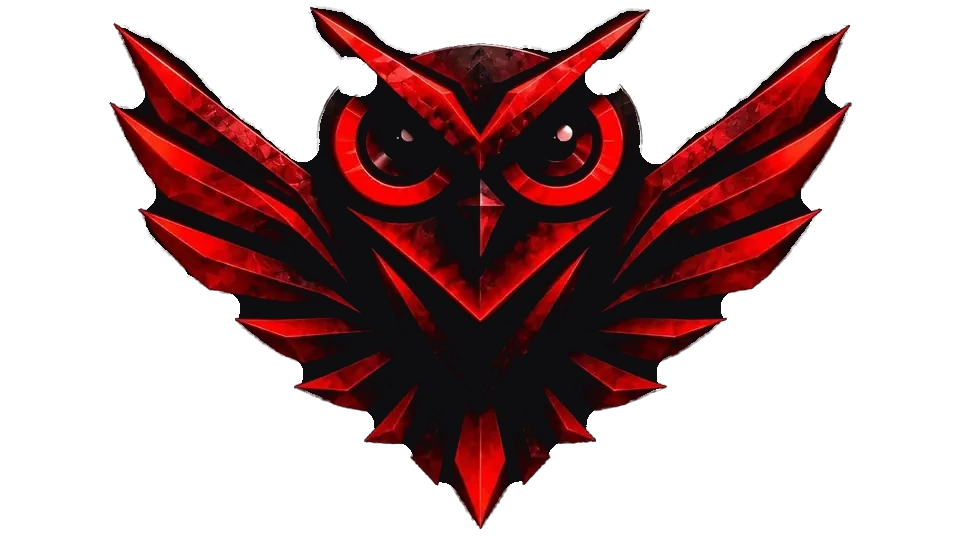
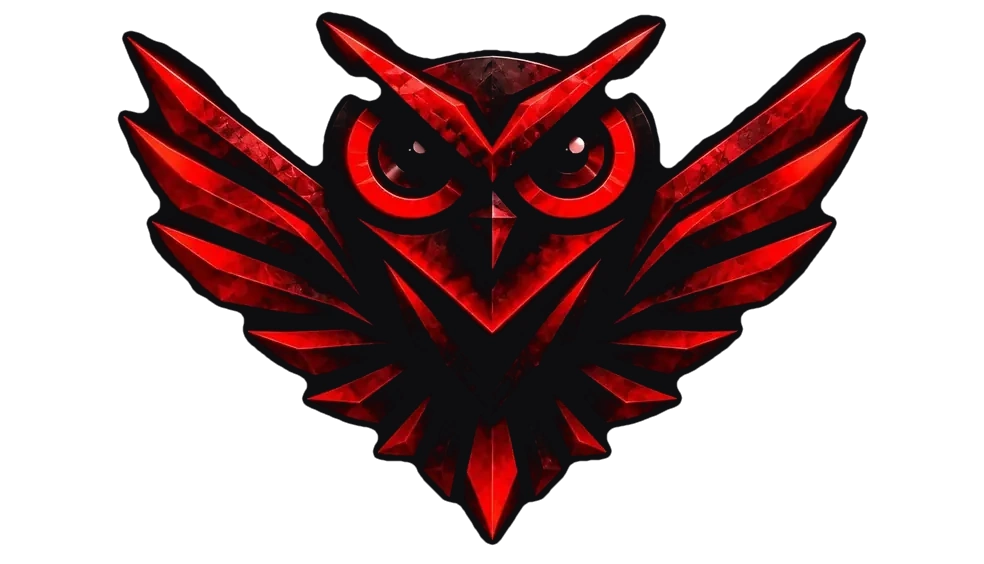
v89: owl cutout with a soft black border, notches closed

Changed region(s): [[0.0938, 0.0, 0.9062, 0.9778]]

diff --git a/index.html b/index.html
@@ -29,16 +29,16 @@
 <link href="https://fonts.googleapis.com/css2?family=Archivo:wdth,wght@62..125,400..900&family=Cairo:wght@400;600;800&family=Reem+Kufi:wght@500;600;700&family=Noto+Naskh+Arabic:wght@500;700&family=Chakra+Petch:wght@500;600&display=swap" rel="stylesheet">
 <style>html,body{margin:0;background:#08080A;color:#F7F5F5}#boot{position:fixed;inset:0;background:#08080A;display:grid;place-items:center;z-index:99}</style>
 <script>try{document.documentElement.setAttribute("data-theme",localStorage.getItem("crm.theme")||"light")}catch(e){}</script>
-<link rel="stylesheet" href="css/app.css?v=88">
-<link rel="stylesheet" href="css/light.css?v=88">
-<link rel="stylesheet" href="css/polish.css?v=88">
+<link rel="stylesheet" href="css/app.css?v=89">
+<link rel="stylesheet" href="css/light.css?v=89">
+<link rel="stylesheet" href="css/polish.css?v=89">
 </head>
 <body>
-<div id="boot"><div class="bootin"><img class="wings" src="assets/owl-wings.webp" alt="" width="320" height="180"><img src="assets/wordmark.webp" alt="Shadows" height="30" style="display:block;margin:6px auto 0"><div class="bootw">WE MOVE IN SILENCE.</div></div></div>
+<div id="boot"><div class="bootin"><img class="wings" src="assets/owl-wings.webp" alt="" width="984" height="564"><img src="assets/wordmark.webp" alt="Shadows" height="30" style="display:block;margin:6px auto 0"><div class="bootw">WE MOVE IN SILENCE.</div></div></div>
 
 <main id="auth" hidden>
   <div class="authcard">
-    <img class="authwings" src="assets/owl-wings.webp" alt="" width="320" height="180">
+    <img class="authwings" src="assets/owl-wings.webp" alt="" width="984" height="564">
     <img class="authword" src="assets/wordmark.webp" alt="Shadows" height="26">
     <p class="authtag">WE MOVE IN SILENCE.</p>
     <div class="seg" id="authseg"><button data-m="in" class="on" data-t="auth.in"></button><button data-m="up" data-t="auth.up"></button></div>
@@ -81,11 +81,11 @@
 <div id="sheet" role="dialog" aria-modal="true"><div class="grab"></div><div id="sheetin"></div></div>
 <div id="toast" role="status"></div>
 
-<script src="js/config.js?v=88"></script>
-<script src="js/i18n.js?v=88"></script>
-<script src="js/store.js?v=88"></script>
-<script src="js/dial.js?v=88"></script>
-<script src="js/fx.js?v=88"></script>
-<script src="js/app.js?v=88"></script>
+<script src="js/config.js?v=89"></script>
+<script src="js/i18n.js?v=89"></script>
+<script src="js/store.js?v=89"></script>
+<script src="js/dial.js?v=89"></script>
+<script src="js/fx.js?v=89"></script>
+<script src="js/app.js?v=89"></script>
 </body>
 </html>

diff --git a/sw.js b/sw.js
@@ -1,4 +1,4 @@
-var C='shadows-crm-v88';
+var C='shadows-crm-v89';
 var A=['./','index.html','css/app.css?v=74','css/light.css?v=74','css/polish.css?v=74','js/config.js?v=74','js/i18n.js?v=74','js/store.js?v=74','js/dial.js?v=74','js/fx.js?v=74','js/app.js?v=74','assets/pin.webp?v=74','join.html','results.html','assets/owl-head.webp','assets/owl-wings.webp','assets/wordmark.webp','assets/icon-192.png','assets/icon-512.png','assets/icon-maskable-512.png','assets/apple-touch-icon.png','assets/eye.webp','manifest.webmanifest'];
 self.addEventListener('install',function(e){e.waitUntil(caches.open(C).then(function(c){return c.addAll(A)}).then(function(){return self.skipWaiting()}))});
 self.addEventListener('activate',function(e){e.waitUntil(caches.keys().then(function(k){return Promise.all(k.filter(function(x){return x!==C&&x!=='shadows-fonts'}).map(function(x){return caches.delete(x)}))}).then(function(){return self.clients.claim()}).then(function(){return self.clients.matchAll({type:'window'})}).then(function(cl){cl.forEach(function(c){try{c.navigate(c.url)}catch(x){}})}))});
